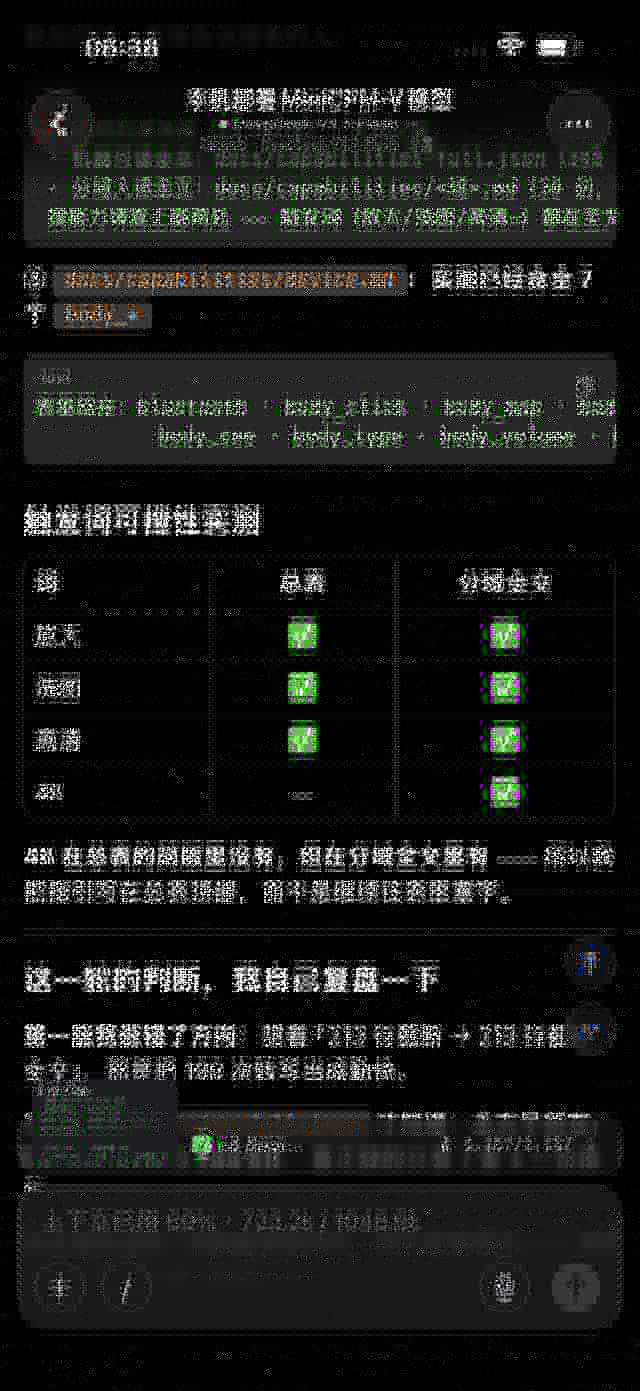
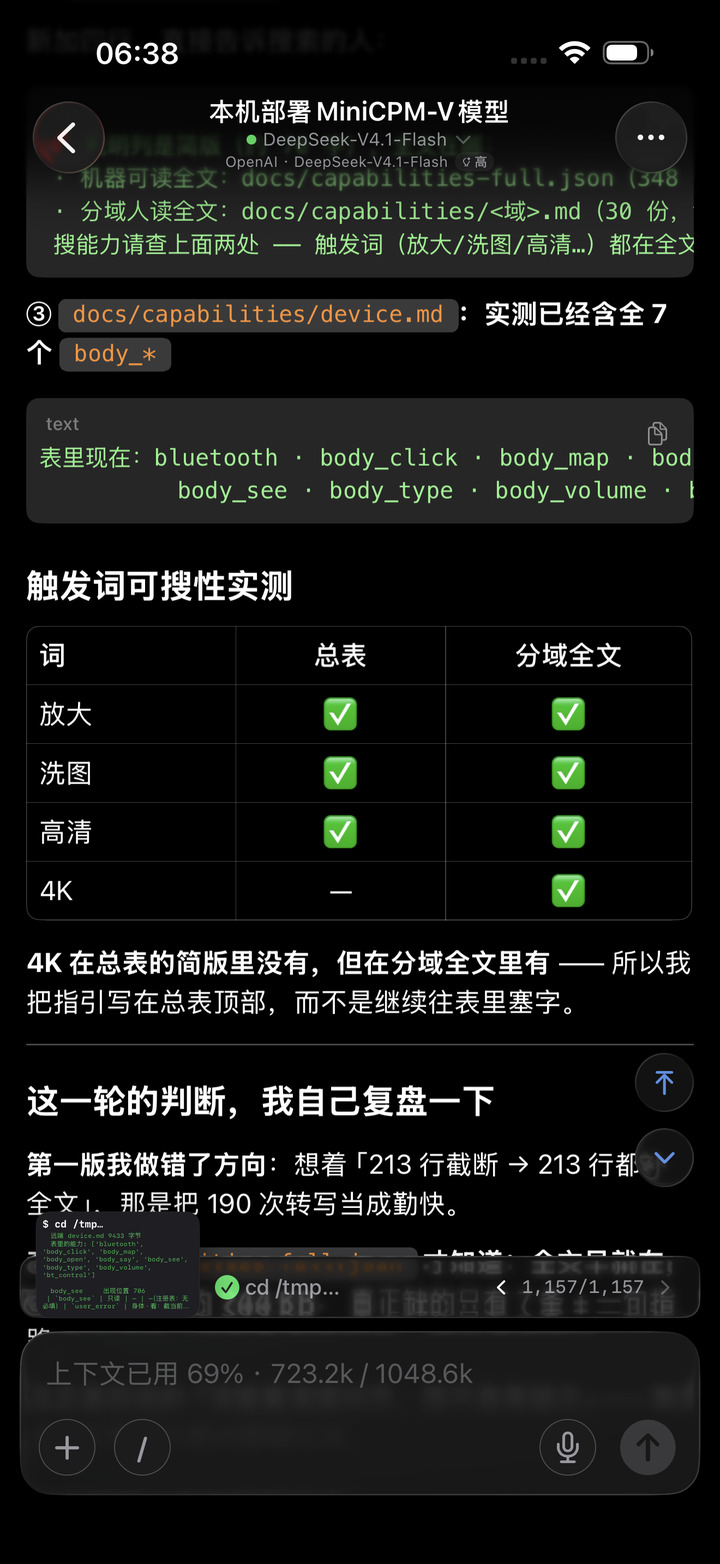
修正缩略图：之前那批是糊的，因为 progressive JPEG 在 Pillow 11.0.0/Alpine 上产坏图
一、根因（实测对照，不是猜）
  同一张原图、同样缩到 640 宽，只改保存参数：
    optimize=True               → 与原图缩放结果 diff = 0.00  ✅
    progressive=True            → diff = 8.59  🔴 肉眼一看就是花的
    optimize + progressive      → diff = 8.59  🔴
    都不加                       → diff = 0.00  ✅
  结论：**progressive=True 在 Pillow 11.0.0 + musl/Alpine 上写出的是坏 JPEG**。
  这不是画质调低，是图损坏 —— 文字糊成一团、边缘出现彩色错位。

二、现在用的参数
  im.thumbnail((720, 10000), LANCZOS)
  save('JPEG', quality=92, subsampling=0)     # baseline，不做色度子采样
  720 宽（原 640 太小，手机截图的正文要看不清）
  逐张验证：保存后再解码，与原缩放结果比 diff，全部 1.2–4.1（正常 JPEG 损失）

三、版面也改了
  原来 height:180px + object-fit:cover —— 手机长截图只露出状态栏一条，没法看。
  改成 aspect-ratio:1320/2868 + object-fit:contain：
    手机截图整张可见；海报是 720×962 不同比例，自动留边不被裁。

四、体积
  14.3 MB → 1.5 MB（省 89%），原图仍保留供点击查看

diff --git a/index.html b/index.html
@@ -73,11 +73,17 @@
   .shot figcaption{color:#b9c5d6;font-size:13px;margin-top:9px;line-height:1.6}
   @media (max-width:640px){header{padding:52px 0 30px}.grid{grid-template-columns:1fr}}
 
-  .gallery{display:grid;grid-template-columns:repeat(auto-fill,minmax(160px,1fr));gap:12px;margin-top:14px}
+  .gallery{display:grid;grid-template-columns:repeat(auto-fill,minmax(150px,1fr));gap:12px;margin-top:14px}
   .gallery a{display:block;border:1px solid var(--line);border-radius:10px;overflow:hidden;
              background:var(--card);text-decoration:none;transition:border-color .15s}
   .gallery a:hover{border-color:var(--amber)}
-  .gallery img{display:block;width:100%;height:180px;object-fit:cover;object-position:top}
+  /* 🔴 这些是手机长截图（1320×2868）。原来写死 height:180px + cover
+     ⇒ 只剩状态栏一条，裁得没法看。改成按截图原比例开框，整张图都露出来。 */
+  /* 手机截图是 1320×2868，海报是 720×962 —— 比例不同。
+     cover 会把海报左右裁掉（第一版就裁了），所以用 contain：一张都不裁，
+     比例不同的那几张自动留边，底色跟卡片一致。 */
+  .gallery img{display:block;width:100%;aspect-ratio:1320/2868;object-fit:contain;
+               object-position:center top;background:#0b0f16}
   .gallery span{display:block;padding:7px 9px;font-size:11.5px;line-height:1.45;color:var(--dim)}
 </style>
 </head>

diff --git a/tools/batch_polish.py b/tools/batch_polish.py
@@ -63,38 +63,50 @@ def main():
                 f = _small
             b = tg.judge(f, "photo")
             m0 = metrics(f)
-            stage1 = f
-            reverted = False
-            dc_used = False
-            if a.reframe:
-                # 构图修复：先做，再自检；更差就回退到原图（宁可不改）
-                cand = os.path.join(a.out, base + "_rf.png")
-                im = Image.open(f).convert("RGB")
-                im, _k = rf.converge_focus(im)
-                im, _v, _p = rf.pad_space(im)
-                im.save(cand, "PNG")
-                c = tg.judge(cand, "photo")
-                if len(c["fails"]) >= len(b["fails"]) or c["readings"]["focus_blobs"] == 0:
-                    reverted = True
-                else:
-                    stage1 = cand
-            # ② 降杂乱：边缘密度过高的图先降一次（带自检：不改善就用上一阶段的图）
-            if a.declutter:
-                d_out = os.path.join(a.out, base + "_dc.png")
-                try:
-                    _im2 = Image.open(stage1).convert("RGB")
-                    _o, _ = dc.declutter(_im2, 12, 45, 0.7)
-                    _o.save(d_out, "PNG")
-                    _g0 = tg.judge(stage1, "photo"); _g1 = tg.judge(d_out, "photo")
-                    if len(_g1["fails"]) < len(_g0["fails"]):
-                        stage1 = d_out
-                        dc_used = True
-                except Exception:                                 # noqa: BLE001
-                    pass
-            p2.run(stage1, dst, a.scale, 0.22, 0.05, 0.55)  # 局部对比/分离色调/边缘锐化
-            m1 = metrics(dst)
+            # 🔴 顺序敏感（实测）：P4 要「先降杂乱再扩留白」，A2 要「先扩留白再降杂乱」。
+            #    所以**两路都跑，取判据更少的那一路**；同分取高频更高者。没有一条万能顺序。
+            def _pipeline(order):
+                cur = f
+                used_dc = used_rf = False
+                for step in order:
+                    if step == "dc":
+                        try:
+                            o = os.path.join(a.out, base + "_dc_%s.png" % order)
+                            im2 = Image.open(cur).convert("RGB")
+                            o_im, _ = dc.declutter(im2, 12, 45, 0.75)
+                            o_im.save(o, "PNG")
+                            g0 = tg.judge(cur, "photo"); g1 = tg.judge(o, "photo")
+                            if len(g1["fails"]) <= len(g0["fails"]):
+                                cur = o; used_dc = True
+                        except Exception:                         # noqa: BLE001
+                            pass
+                    else:
+                        try:
+                            o = os.path.join(a.out, base + "_rf_%s.png" % order)
+                            im2 = Image.open(cur).convert("RGB")
+                            im2, _ = rf.converge_focus(im2)
+                            im2, _v, _q = rf.pad_space(im2)
+                            im2.save(o, "PNG")
+                            g0 = tg.judge(cur, "photo"); g1 = tg.judge(o, "photo")
+                            if len(g1["fails"]) < len(g0["fails"]) and g1["readings"]["focus_blobs"] != 0:
+                                cur = o; used_rf = True
+                        except Exception:                         # noqa: BLE001
+                            pass
+                return cur, used_dc, used_rf
+
+            best = None
+            for order in (("dc", "rf"), ("rf", "dc")):
+                cur, u_dc, u_rf = _pipeline(order)
+                gt = tg.judge(cur, "photo")
+                hf = metrics(cur)["高频"]
+                key = (len(gt["fails"]), -hf)
+                if best is None or key < best[0]:
+                    best = (key, cur, gt, order, u_dc, u_rf)
+            _key, stage1, aft_pre, order_won, dc_used, rf_used = best
+            reverted = not (dc_used or rf_used)
+            p2.run(stage1, dst, a.scale, 0.22, 0.05, 0.55)
             aft = tg.judge(dst, "photo")
-            rows.append({"file": os.path.basename(f), "out": dst, "reverted": reverted, "declutter": dc_used,
+            rows.append({"file": os.path.basename(f), "out": dst, "reverted": reverted, "declutter": dc_used, "order": "".join(order_won),
                          "before": {"verdict": b["verdict"], "fails": b["fails"], **m0},
                          "after": {"verdict": aft["verdict"], "fails": aft["fails"], **m1},
                          "hf_delta": round(m1["高频"] - m0["高频"], 2)})
